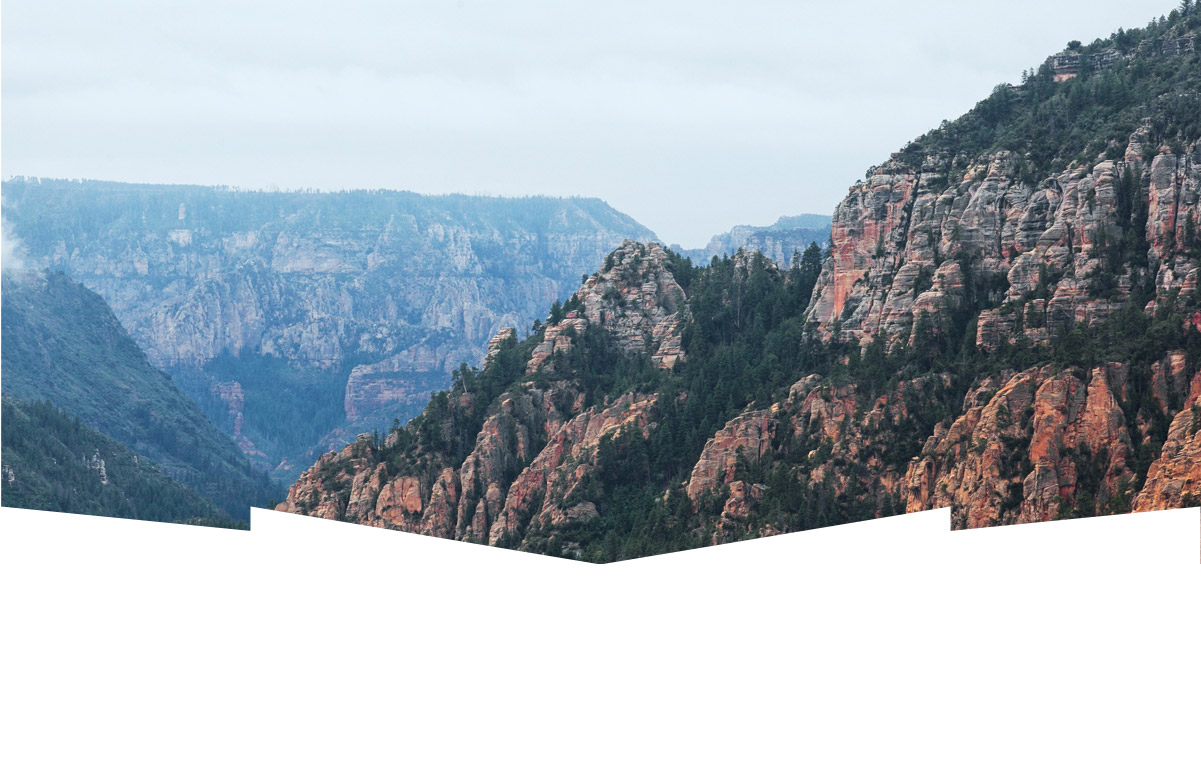
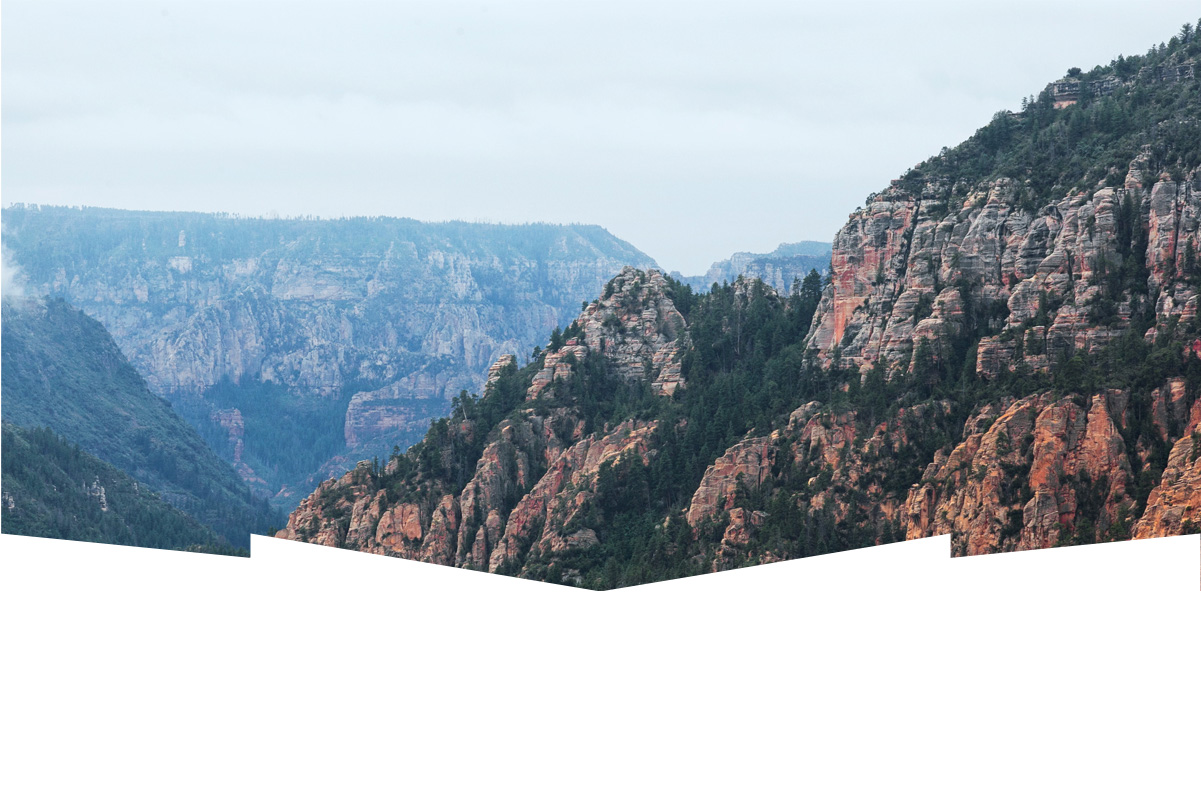
Сетки

Changed region(s): [[0.0, 0.0, 1.0, 0.7385]]

diff --git a/index.html b/index.html
@@ -46,7 +46,7 @@
             <p class="card-description">Седона — не аттракцион для туристов, там течёт своя жизнь</p>
           </div>
           <div class="card-img">
-            <img src="img/index-reason1.jpg" alt="Архитектура Седоны" width="800" height="400">
+            <img src="img/index-reason1.jpg" alt="Архитектура Седоны" width="800" height="256">
           </div>
         </section>
         <section class="features">
@@ -73,7 +73,7 @@
             <p class="card-description">Да, по нему можно пройти! Если конечно вы осмелитесь</p>
           </div>
           <div class="card-img">
-            <img src="img/index-reason2.jpg" alt="Скалы Седоны" width="800" height="400">
+            <img src="img/index-reason2.jpg" alt="Скалы Седоны" width="800" height="256">
           </div>
         </section>
         <section class="card-row">
@@ -96,7 +96,8 @@
       </article>
       <section class="appointment">
         <h2 class="appointment-title">Заинтересовались?</h2>
-        <p class="appointment-description">Укажите предполагаемые даты поездки, и мы покажем вам лучшие предложения гостиниц в седоне</p>
+        <p class="appointment-description">Укажите предполагаемые даты поездки,
+          <br> и мы покажем вам лучшие предложения гостиниц в седоне</p>
         <button class="btn btn-appointment" type="button">Поиск гостиницы в седоне</button>
       </section>
       <section class="map">
@@ -177,7 +178,7 @@
       <p class="footer-copyright">
         <span>Website by</span>
         <a class="copyright-btn" href="#">
-          <svg width="115" height="41">
+          <svg width="115" height="41" aria-label="Логотип HTML Academy">
             <path fill="#231f20" d="M44.61 26.86a2 2 0 0 0 .55-.1v1.33a3.25 3.25 0 0 1-1.18.21 1.67 1.67 0 0 1-1.67-1 4.84 4.84 0 0 1-3.14 1.08c-1.51 0-2.91-.83-2.91-2.55 0-2.13 2-2.79 3.71-2.79a11.08 11.08 0 0 1 2.17.25v-.3c0-1-.76-1.77-2.19-1.77a7.42 7.42 0 0 0-3 .64v-1.7a10.21 10.21 0 0 1 3.19-.55c2.36 0 3.81 1.12 3.81 3.65v3a.54.54 0 0 0 .49.59h.17zm-6.44-1.13a1.35 1.35 0 0 0 1.46 1.25h.11a3.39 3.39 0 0 0 2.41-1v-1.42a9.72 9.72 0 0 0-1.81-.21c-1 0-2.16.33-2.16 1.38zm12.36-6.11a5 5 0 0 1 2.57.64v1.72a4.08 4.08 0 0 0-2.3-.7 2.75 2.75 0 1 0 0 5.49 5 5 0 0 0 2.43-.64v1.71a6.27 6.27 0 0 1-2.76.57A4.21 4.21 0 0 1 46 24.49v-.41a4.32 4.32 0 0 1 4.18-4.46h.38zm12.17 7.24a2 2 0 0 0 .55-.1v1.33a3.25 3.25 0 0 1-1.18.21 1.67 1.67 0 0 1-1.67-1 4.84 4.84 0 0 1-3.14 1.08c-1.51 0-2.91-.83-2.91-2.55 0-2.13 2-2.79 3.71-2.79a11.08 11.08 0 0 1 2.17.25v-.3c0-1-.76-1.77-2.19-1.77a7.42 7.42 0 0 0-3 .64v-1.7a10.21 10.21 0 0 1 3.19-.55c2.36 0 3.81 1.12 3.81 3.65v3a.54.54 0 0 0 .49.59h.17zm-6.44-1.13a1.35 1.35 0 0 0 1.47 1.25h.11a3.39 3.39 0 0 0 2.41-1v-1.42a9.72 9.72 0 0 0-1.81-.21c-1.06 0-2.16.33-2.16 1.38zM73 15.98v12.2h-1.65v-1.32a3.88 3.88 0 0 1-3.19 1.54 4.4 4.4 0 0 1 0-8.78 3.81 3.81 0 0 1 3 1.3v-4.94H73zm-4.53 5.22a2.76 2.76 0 1 0 0 5.52 2.86 2.86 0 0 0 2.68-1.74v-2a2.91 2.91 0 0 0-2.66-1.73zM79 19.62c3.31 0 4.46 2.68 3.92 5.09H76.7c.21 1.5 1.67 2.11 3.19 2.11a6.11 6.11 0 0 0 2.64-.59v1.6a7.14 7.14 0 0 1-3 .57c-2.53 0-4.75-1.42-4.75-4.42a4.18 4.18 0 0 1 4-4.39H79zm.09 1.54a2.28 2.28 0 0 0-2.44 2.1v.06h4.65a2 2 0 0 0-2.17-2.16zm5.73 7v-8.31h1.65v1a3.81 3.81 0 0 1 2.78-1.27 2.86 2.86 0 0 1 2.64 1.4 4.12 4.12 0 0 1 2.91-1.33 3.06 3.06 0 0 1 3.2 3.33v5.2h-1.9v-5.15a1.59 1.59 0 0 0-1.42-1.75h-.26a2.8 2.8 0 0 0-2.07 1.12v5.78h-1.9v-5.15A1.59 1.59 0 0 0 89 21.29h-.2a3 3 0 0 0-2.21 1.29v5.63h-1.73zm21.31-8.33h1.9l-3.91 9.46c-.9 2.17-2.09 2.86-3.35 2.86a4.76 4.76 0 0 1-1.1-.14v-1.57a2.86 2.86 0 0 0 .85.12c.9 0 1.58-.64 2.07-1.9l.17-.42-4-8.4h2l2.86 6.29zM38.73 1.44V6.2a3.81 3.81 0 0 1 2.7-1.14 3.25 3.25 0 0 1 3.44 3.4v5.15H43V8.7a1.81 1.81 0 0 0-1.61-2h-.3a2.93 2.93 0 0 0-2.32 1.39v5.52h-1.9V1.44h1.9zm11.21.85v3h3v1.6h-3v3.81c0 1.1.5 1.46 1.58 1.46a4.49 4.49 0 0 0 1.69-.33v1.6a6.8 6.8 0 0 1-2.21.35 2.55 2.55 0 0 1-2.86-2.74V6.87h-1.56V5.24h1.5V2.72zm5.4 11.31V5.26H57v1a3.81 3.81 0 0 1 2.77-1.28 2.86 2.86 0 0 1 2.6 1.33 4.12 4.12 0 0 1 2.91-1.33 3.06 3.06 0 0 1 3.16 3.4v5.21h-1.9V8.44a1.59 1.59 0 0 0-1.42-1.75h-.23a2.8 2.8 0 0 0-2.07 1.12v5.78h-1.9V8.44a1.59 1.59 0 0 0-1.42-1.75h-.23a3 3 0 0 0-2.21 1.29v5.63h-1.72zM71.17 1.43H73v12.15h-1.83V1.43zM14.71-.02h-.16L0 1.52v26.67l14.55 8.66 14.55-8.66V1.52zm12.5 27.1l-12.66 7.54L1.9 27.1V16.16l12.59 7.5v1.32l-8.63-5.1v1.31l8.68 5.21v1.39l-8.67-5.16v1.35l8.68 5.21 8.75-5.24v-5.66l3.9-2.31V27.1zm0-12.53l-3.48 2-1.6 1-7.62-4.57v1.31L21 18.21l-.14.09-1 .54-5.37-3.2v1.34l4.24 2.52-1 .67-3.2-1.9v1.31l2.1 1.24-2.13 1.26L2 14.63l12.51-7.54zm0-1.32L14.49 5.74 1.91 13.23v-10L14.56 1.9l12.65 1.33v10z"
             />
           </svg>

diff --git a/css/style.css b/css/style.css
@@ -1,21 +1,18 @@
 body {
   margin: 0;
   padding: 0;
-
   font-weight: 400;
   font-size: 14px;
   line-height: 21px;
   font-family: "PT Sans", Arial, sans-serif;
   color: #333333;
   text-transform: uppercase;
-
   background-color: #f2f2f2;
 }
 
 .page-wrapper {
   width: 1200px;
   margin: 0 auto;
-
   background-color: #ffffff;
   box-shadow: 0 5px 15px 0 rgba(0, 1, 1, 0.2);
 }
@@ -53,8 +50,8 @@ a.current {
 
 .welcome {
   text-align: center;
-
   background-image: url(../img/background-photo.jpg);
+  background-position: 0px -81px;
 }
 
 .welcome-title {
@@ -80,8 +77,11 @@ a.current {
 
 .card-blue {
   color: #ffffff;
-
   background-color: #81b3d2;
+}
+
+.card-grey {
+  background-color: #eeeeee;
 }
 
 .card-blue .card-title {
@@ -110,7 +110,6 @@ a.current {
   text-align: center;
   color: #ffffff;
   text-transform: uppercase;
-
   border: none;
 }
 
@@ -160,7 +159,6 @@ a.current {
 
 .form-row input {
   font: inherit;
-
   background-color: #f2f2f2;
   border: none;
 }
@@ -184,7 +182,6 @@ a.current {
 ::placeholder {
   /* Chrome, Firefox, Opera, Safari 10.1+ */
   color: #000000;
-
   opacity: 1;
   /* Firefox */
 }
@@ -220,7 +217,6 @@ a.current {
 
 .filters {
   color: #ffffff;
-
   background-image: url(../img/filter-background.jpg);
 }
 
@@ -231,7 +227,6 @@ a.current {
 
 .filter-item input {
   font: inherit;
-
   background-color: transparent;
   border: none;
 }
@@ -239,7 +234,6 @@ a.current {
 .filter-item ::placeholder {
   /* Chrome, Firefox, Opera, Safari 10.1+ */
   color: #ffffff;
-
   opacity: 1;
   /* Firefox */
 }
@@ -316,10 +310,122 @@ a.link-current {
 
 .rate {
   color: #666666;
-
   background-color: #f2f2f2;
 }
 
 .social-list {
   list-style: none;
+}
+
+/* ----- Сеточные стили ----- */
+
+.main-header {
+  position: relative;
+}
+
+.main-logo {
+  position: absolute;
+  margin-left: 530px;
+}
+
+.navigation-list {
+  display: flex;
+  margin: 0;
+  padding: 14px 72px;
+}
+
+.navigation-list li:nth-child(2) {
+  margin-left: 147px;
+  margin-right: 388px;
+}
+
+.navigation-list li:last-child {
+  margin-left: auto;
+}
+
+.welcome {
+  padding-top: 79px;
+  display: flex;
+  flex-direction: column;
+  align-items: center;
+  margin-bottom: 36px;
+}
+
+.welcome-img {
+  margin-bottom: 125px;
+}
+
+.welcome h1 {
+  width: 576px
+}
+
+.card-row {
+  display: flex;
+}
+
+.card-row .card {
+  width: 400px;
+}
+
+.card-img img {
+  vertical-align: bottom;
+}
+
+.features-list {
+  display: flex;
+  padding: 0;
+  margin: 0;
+}
+
+.features-item {
+  min-height: 269px;
+  width: 400px;
+}
+
+.features-item:first-child::before {
+  content: url(../img/icon-1.svg);
+  padding-top: 60px;
+}
+
+.features-item:nth-child(2)::before {
+  content: url(../img/icon-3.svg);
+  padding-top: 61px;
+}
+
+.features-item:last-child::before {
+  content: url(../img/icon-2.svg);
+  padding-top: 56px;
+}
+
+.features-item:first-child {
+  padding-top: 60px;
+}
+
+.features-item:nth-child(2) {
+  padding-top: 61px;
+}
+
+.features-item:last-child {
+  padding-top: 56px;
+}
+
+.visually-hidden {
+  position: absolute;
+  height: 1px;
+  width: 1px;
+  overflow: hidden;
+  clip: rect(1px 1px 1px 1px);
+  /* IE6, IE7 */
+  clip: rect(1px, 1px, 1px, 1px);
+  margin: -1px;
+  border: 0;
+  padding: 0;
+}
+
+.card-row:nth-child(3) .card-img {
+  order: -1;
+}
+
+.card {
+  padding: auto;
 }

diff --git a/hotels.html b/hotels.html
@@ -223,7 +223,7 @@
       <p class="footer-copyright">
         <span>Website by</span>
         <a class="copyright-btn" href="#">
-          <svg width="115" height="41">
+          <svg width="115" height="41" aria-label="Логотип HTML Academy">
             <path fill="#231f20" d="M44.61 26.86a2 2 0 0 0 .55-.1v1.33a3.25 3.25 0 0 1-1.18.21 1.67 1.67 0 0 1-1.67-1 4.84 4.84 0 0 1-3.14 1.08c-1.51 0-2.91-.83-2.91-2.55 0-2.13 2-2.79 3.71-2.79a11.08 11.08 0 0 1 2.17.25v-.3c0-1-.76-1.77-2.19-1.77a7.42 7.42 0 0 0-3 .64v-1.7a10.21 10.21 0 0 1 3.19-.55c2.36 0 3.81 1.12 3.81 3.65v3a.54.54 0 0 0 .49.59h.17zm-6.44-1.13a1.35 1.35 0 0 0 1.46 1.25h.11a3.39 3.39 0 0 0 2.41-1v-1.42a9.72 9.72 0 0 0-1.81-.21c-1 0-2.16.33-2.16 1.38zm12.36-6.11a5 5 0 0 1 2.57.64v1.72a4.08 4.08 0 0 0-2.3-.7 2.75 2.75 0 1 0 0 5.49 5 5 0 0 0 2.43-.64v1.71a6.27 6.27 0 0 1-2.76.57A4.21 4.21 0 0 1 46 24.49v-.41a4.32 4.32 0 0 1 4.18-4.46h.38zm12.17 7.24a2 2 0 0 0 .55-.1v1.33a3.25 3.25 0 0 1-1.18.21 1.67 1.67 0 0 1-1.67-1 4.84 4.84 0 0 1-3.14 1.08c-1.51 0-2.91-.83-2.91-2.55 0-2.13 2-2.79 3.71-2.79a11.08 11.08 0 0 1 2.17.25v-.3c0-1-.76-1.77-2.19-1.77a7.42 7.42 0 0 0-3 .64v-1.7a10.21 10.21 0 0 1 3.19-.55c2.36 0 3.81 1.12 3.81 3.65v3a.54.54 0 0 0 .49.59h.17zm-6.44-1.13a1.35 1.35 0 0 0 1.47 1.25h.11a3.39 3.39 0 0 0 2.41-1v-1.42a9.72 9.72 0 0 0-1.81-.21c-1.06 0-2.16.33-2.16 1.38zM73 15.98v12.2h-1.65v-1.32a3.88 3.88 0 0 1-3.19 1.54 4.4 4.4 0 0 1 0-8.78 3.81 3.81 0 0 1 3 1.3v-4.94H73zm-4.53 5.22a2.76 2.76 0 1 0 0 5.52 2.86 2.86 0 0 0 2.68-1.74v-2a2.91 2.91 0 0 0-2.66-1.73zM79 19.62c3.31 0 4.46 2.68 3.92 5.09H76.7c.21 1.5 1.67 2.11 3.19 2.11a6.11 6.11 0 0 0 2.64-.59v1.6a7.14 7.14 0 0 1-3 .57c-2.53 0-4.75-1.42-4.75-4.42a4.18 4.18 0 0 1 4-4.39H79zm.09 1.54a2.28 2.28 0 0 0-2.44 2.1v.06h4.65a2 2 0 0 0-2.17-2.16zm5.73 7v-8.31h1.65v1a3.81 3.81 0 0 1 2.78-1.27 2.86 2.86 0 0 1 2.64 1.4 4.12 4.12 0 0 1 2.91-1.33 3.06 3.06 0 0 1 3.2 3.33v5.2h-1.9v-5.15a1.59 1.59 0 0 0-1.42-1.75h-.26a2.8 2.8 0 0 0-2.07 1.12v5.78h-1.9v-5.15A1.59 1.59 0 0 0 89 21.29h-.2a3 3 0 0 0-2.21 1.29v5.63h-1.73zm21.31-8.33h1.9l-3.91 9.46c-.9 2.17-2.09 2.86-3.35 2.86a4.76 4.76 0 0 1-1.1-.14v-1.57a2.86 2.86 0 0 0 .85.12c.9 0 1.58-.64 2.07-1.9l.17-.42-4-8.4h2l2.86 6.29zM38.73 1.44V6.2a3.81 3.81 0 0 1 2.7-1.14 3.25 3.25 0 0 1 3.44 3.4v5.15H43V8.7a1.81 1.81 0 0 0-1.61-2h-.3a2.93 2.93 0 0 0-2.32 1.39v5.52h-1.9V1.44h1.9zm11.21.85v3h3v1.6h-3v3.81c0 1.1.5 1.46 1.58 1.46a4.49 4.49 0 0 0 1.69-.33v1.6a6.8 6.8 0 0 1-2.21.35 2.55 2.55 0 0 1-2.86-2.74V6.87h-1.56V5.24h1.5V2.72zm5.4 11.31V5.26H57v1a3.81 3.81 0 0 1 2.77-1.28 2.86 2.86 0 0 1 2.6 1.33 4.12 4.12 0 0 1 2.91-1.33 3.06 3.06 0 0 1 3.16 3.4v5.21h-1.9V8.44a1.59 1.59 0 0 0-1.42-1.75h-.23a2.8 2.8 0 0 0-2.07 1.12v5.78h-1.9V8.44a1.59 1.59 0 0 0-1.42-1.75h-.23a3 3 0 0 0-2.21 1.29v5.63h-1.72zM71.17 1.43H73v12.15h-1.83V1.43zM14.71-.02h-.16L0 1.52v26.67l14.55 8.66 14.55-8.66V1.52zm12.5 27.1l-12.66 7.54L1.9 27.1V16.16l12.59 7.5v1.32l-8.63-5.1v1.31l8.68 5.21v1.39l-8.67-5.16v1.35l8.68 5.21 8.75-5.24v-5.66l3.9-2.31V27.1zm0-12.53l-3.48 2-1.6 1-7.62-4.57v1.31L21 18.21l-.14.09-1 .54-5.37-3.2v1.34l4.24 2.52-1 .67-3.2-1.9v1.31l2.1 1.24-2.13 1.26L2 14.63l12.51-7.54zm0-1.32L14.49 5.74 1.91 13.23v-10L14.56 1.9l12.65 1.33v10z"
             />
           </svg>
